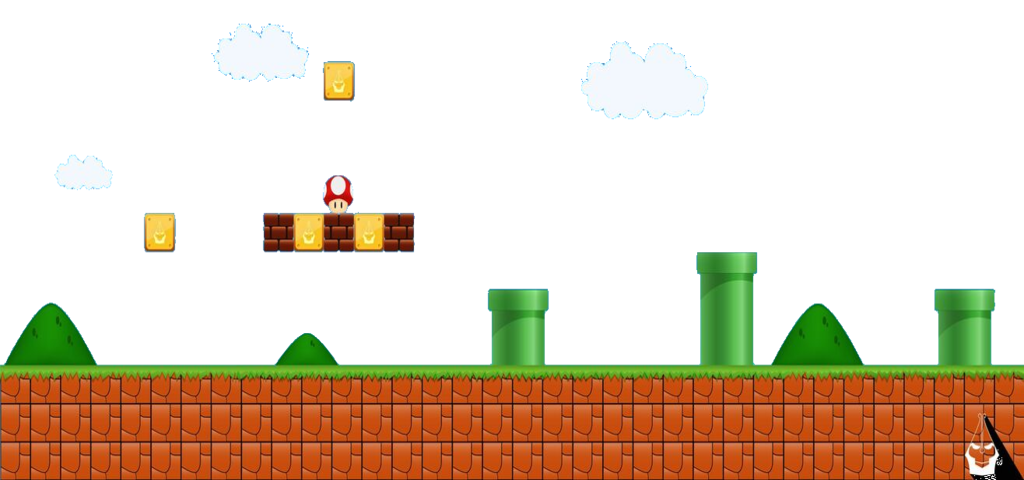
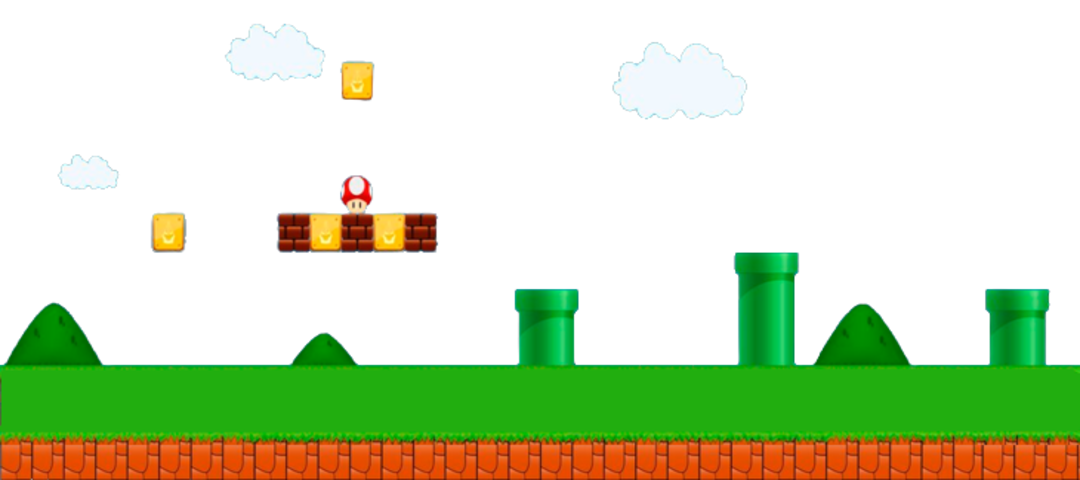
Fondos cambiados

diff --git a/Integracion_Pruebas/index.html b/Integracion_Pruebas/index.html
@@ -2,7 +2,7 @@
 <html>
 	<head>
 		<meta http-equiv="Content-type" content="text/html; charset=utf-8">
-		<title>Kill Vill-ains</title>
+		<title>Kill Vill-aim</title>
 		<script src="js/jquery.min.js" type="text/javascript" charset="utf-8"></script>	
 		<script src="js/Box2dWeb-2.1.a.3.min.js" type="text/javascript" charset="utf-8"></script>				
 		<script src="js/game.js" type="text/javascript" charset="utf-8"></script>

diff --git a/Integracion_Pruebas/js/game.js b/Integracion_Pruebas/js/game.js
@@ -472,7 +472,7 @@ var levels = {
 		},
 		{   // Tercer nivel
 			foreground:'mario-foreground',
-			background:'clouds-background',
+			background:'mariosky-background',
 			entities:[
 				{type:"ground", name:"dirt", x:500,y:440,width:1000,height:20,isStatic:true},
 				{type:"ground", name:"wood", x:185,y:390,width:30,height:80,isStatic:true},
